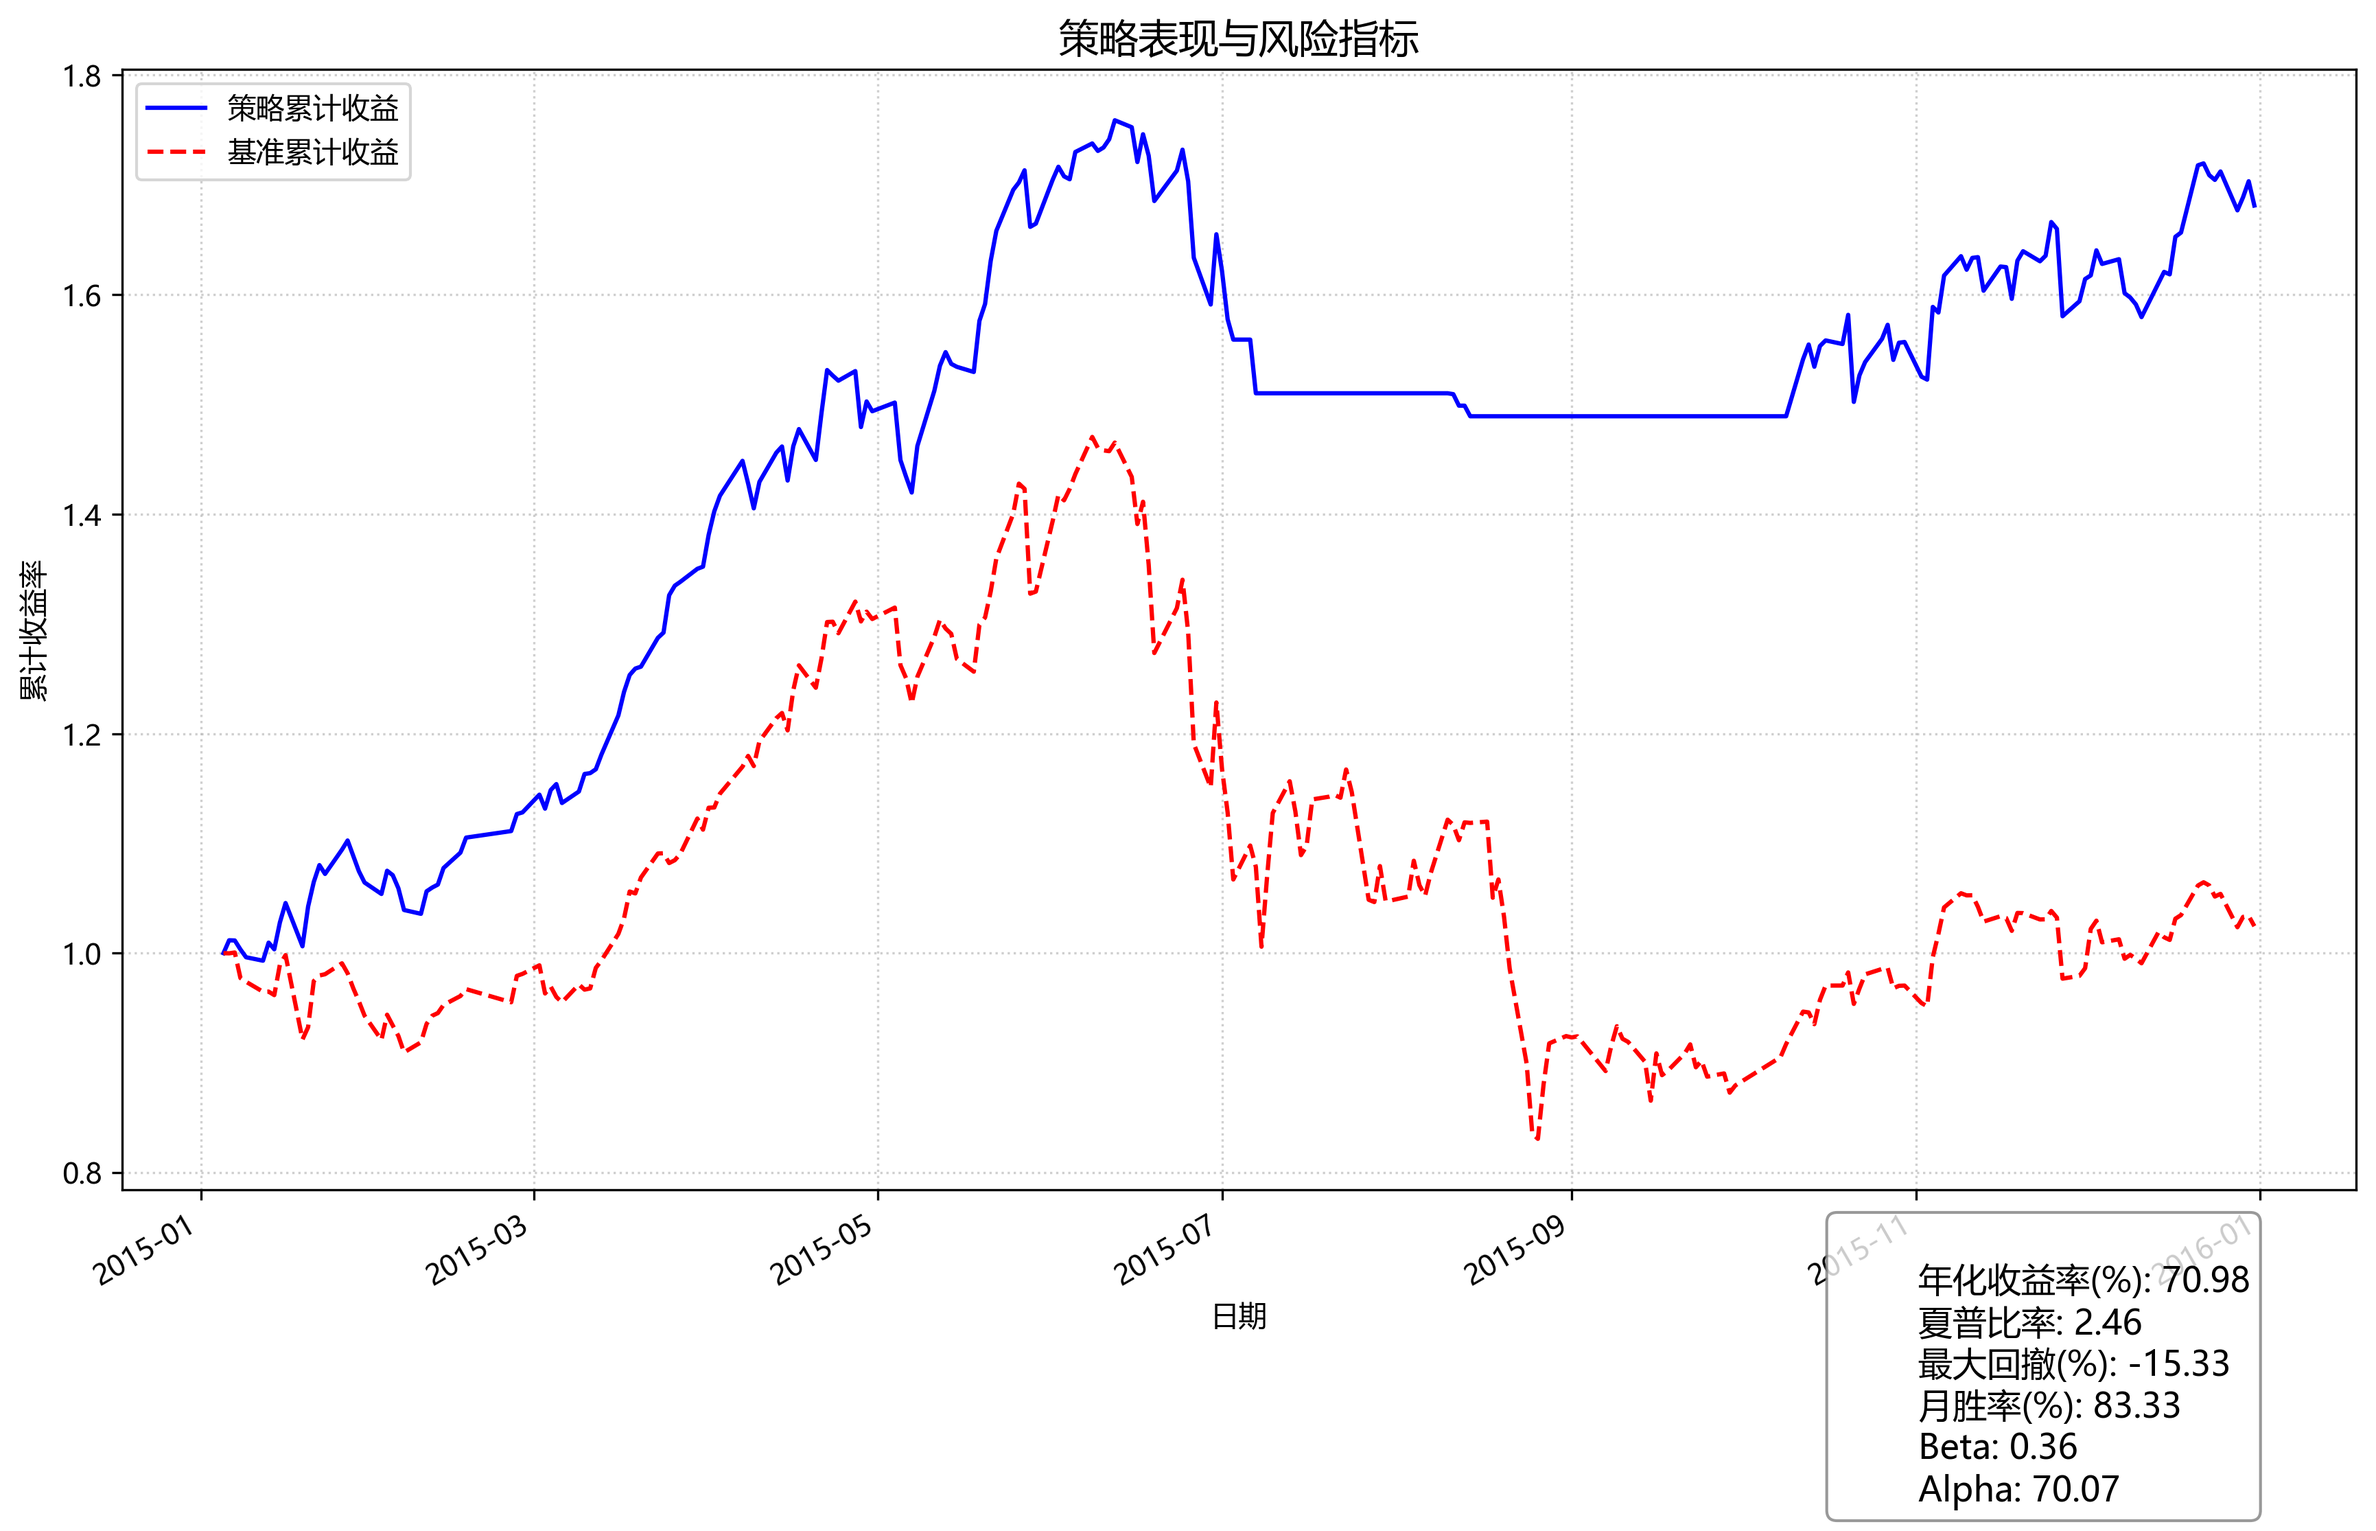
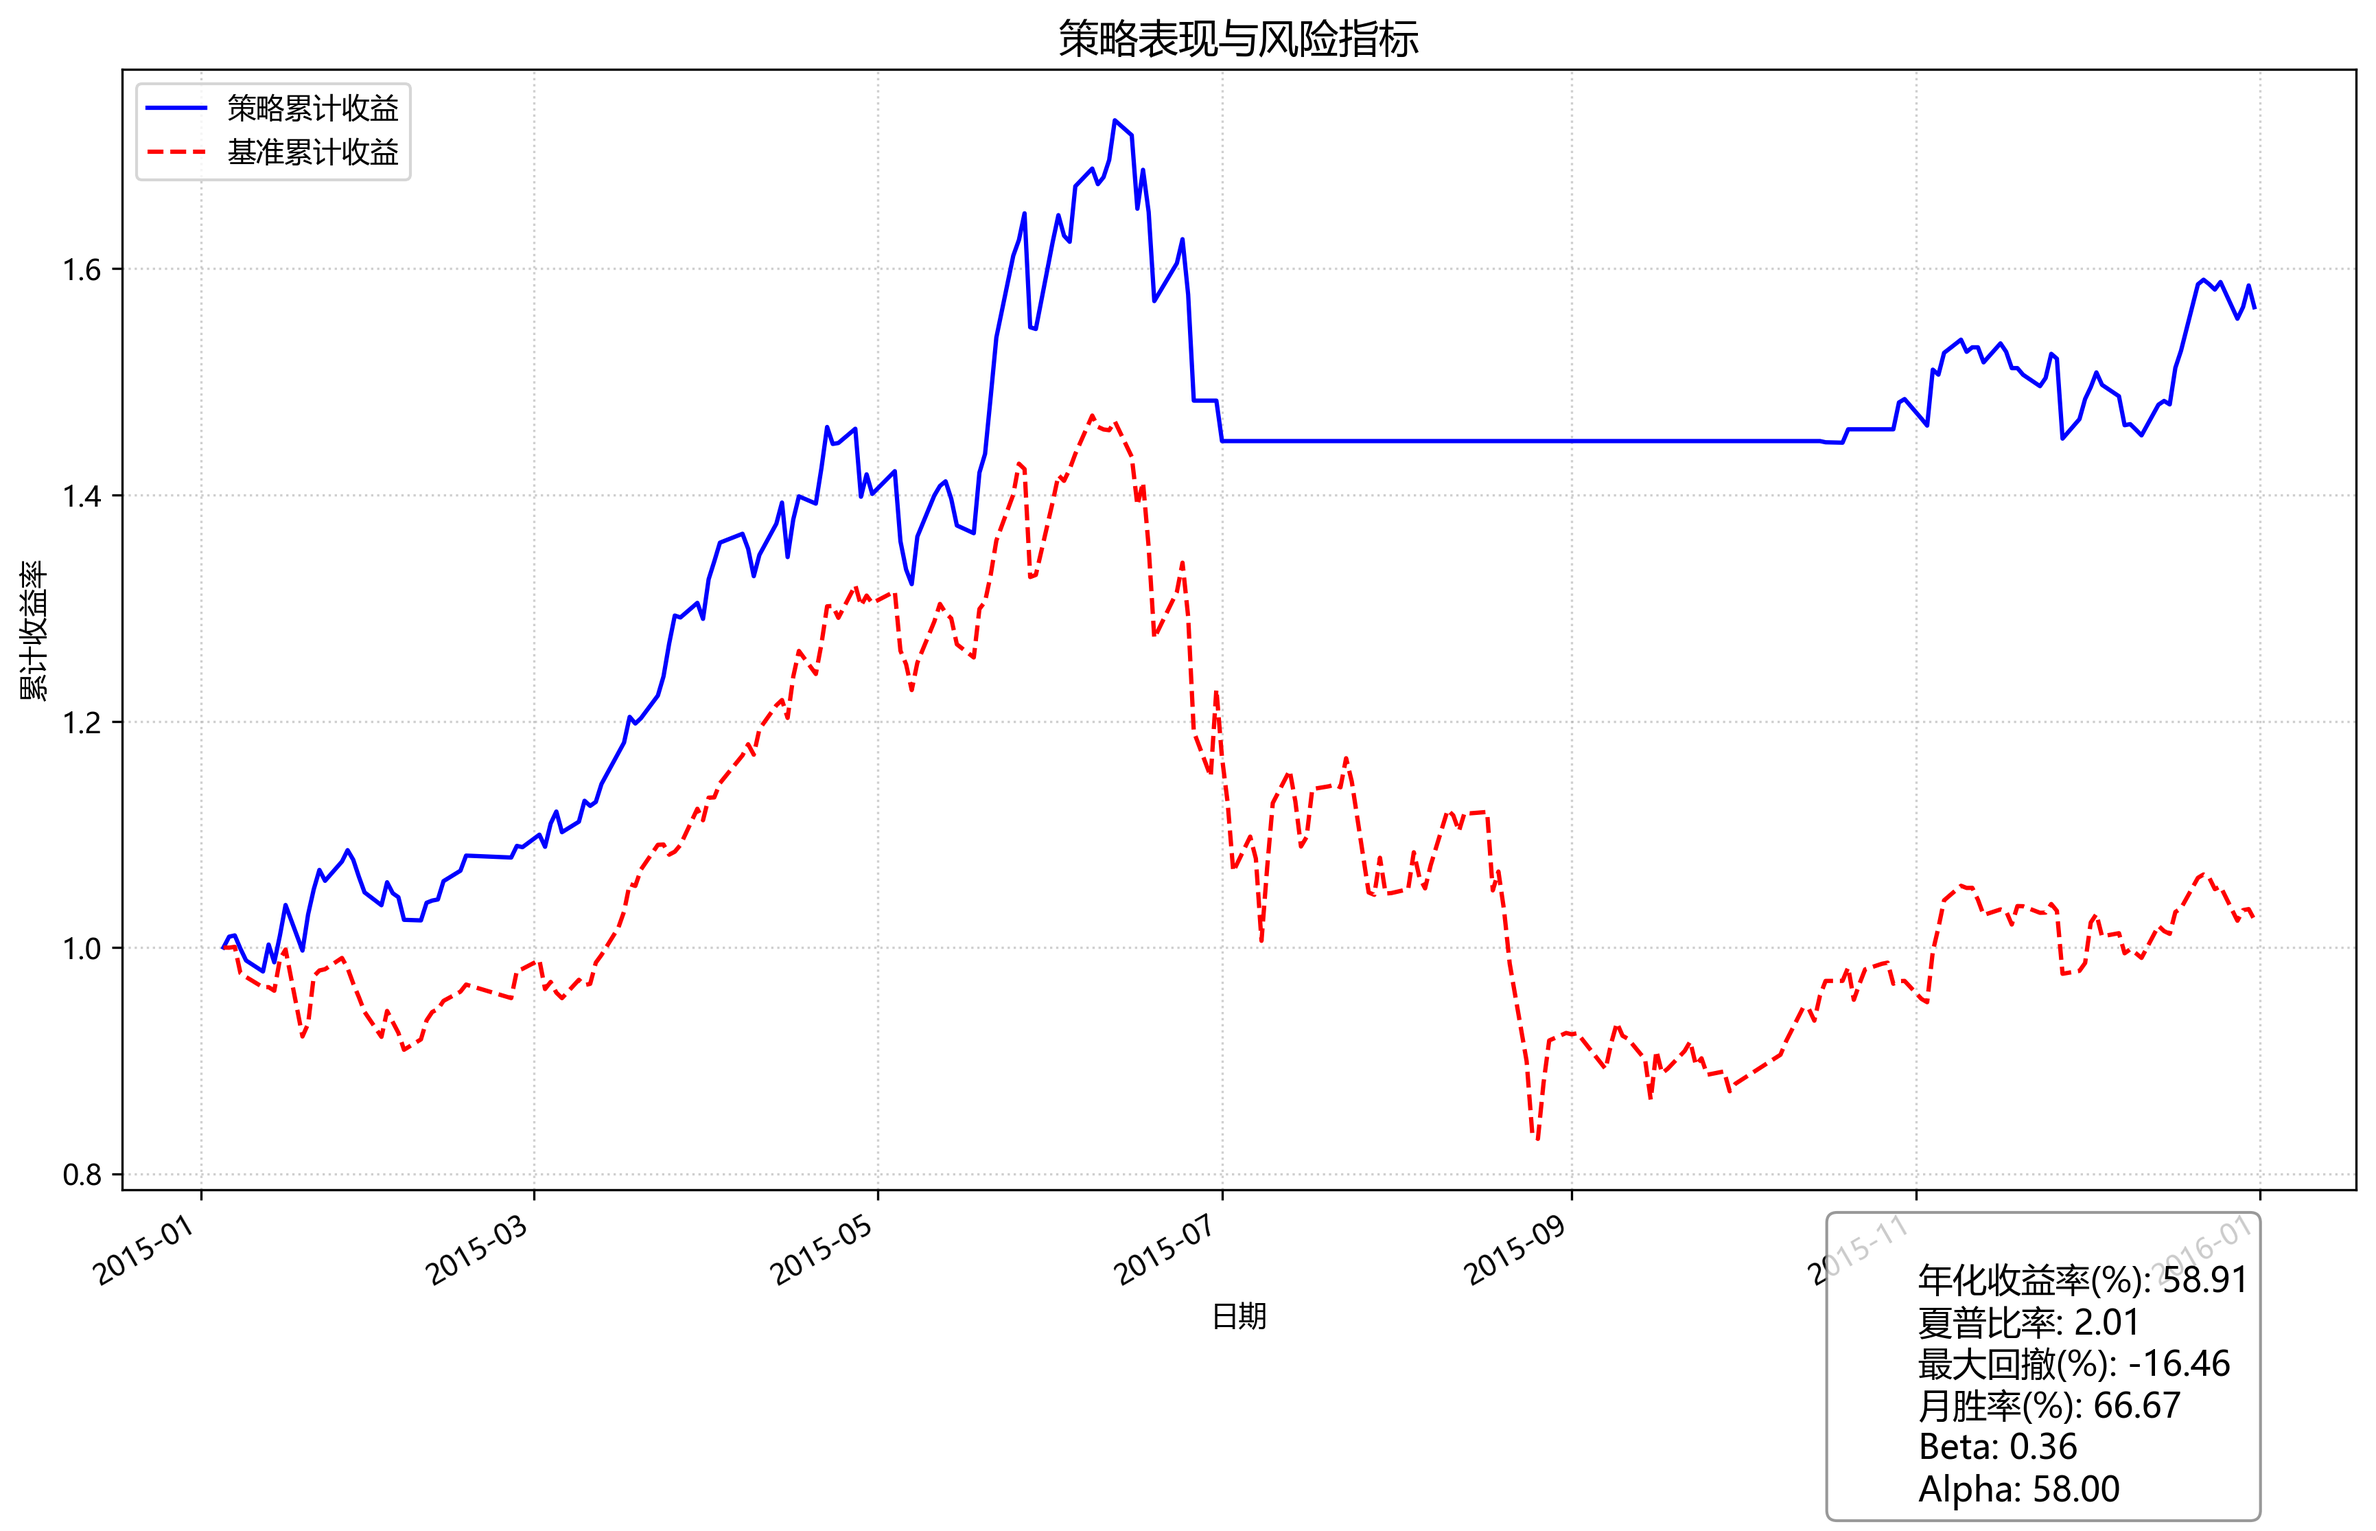
dev

diff --git a/simple_backtrade/strategy/kaimin.py b/simple_backtrade/strategy/kaimin.py
@@ -105,14 +105,16 @@ class BaseStrategy:
         return stock_yoy_gr_mean
     
     def handle_bar(self,date:datetime)->pandas.DataFrame:
-        keeps_num=20
+        keeps_num=10
 
-        baseline_data=self.data_manager.get_recent_baseline(date,60).close
-        baseline=baseline_data.tail(1).iloc[0]
-        m30=baseline_data.tail(30).mean()
-        m60=baseline_data.tail(60).mean()
+        baseline_data=self.data_manager.get_recent_baseline(date,61).close
+        baseline=baseline_data.iloc[-1]
+        base_m20_t1=baseline_data.iloc[-2-20:-2].mean()
+        base_m20_t0=baseline_data.iloc[-1-20:-1].mean()
+        base_m60_t1=baseline_data.head(60).mean()
+        base_m60_t0=baseline_data.tail(60).mean()
 
-        baseline_negative=(m60>m30 and m30>baseline)
+        baseline_negative=(base_m60_t0>base_m20_t0 and base_m20_t0>baseline and base_m20_t1>base_m20_t0 and base_m60_t1>base_m60_t0)
 
 
         market_data=self.data_manager.get_daily_market_data(date,self.stock_factors.index)
@@ -125,27 +127,21 @@ class BaseStrategy:
         history_price=self.data_manager.get_recent_stock_market_data(valid_stock,date,60+1)['close']
         m60_t0=history_price.groupby(level='stock_code').tail(60).groupby(level='stock_code').mean()
         m60_t1=history_price.groupby(level='stock_code').head(60).groupby(level='stock_code').mean()
+        history_price=self.data_manager.get_recent_stock_market_data(valid_stock,date,20+1)['close']
+        m20_t0=history_price.groupby(level='stock_code').tail(20).groupby(level='stock_code').mean()
+        m20_t1=history_price.groupby(level='stock_code').head(20).groupby(level='stock_code').mean()
         share_price=share_price.reindex(self.stock_factors.index,fill_value=1e3)
         m60_t1=m60_t1.reindex(self.stock_factors.index,fill_value=1e9)
         m60_t0=m60_t0.reindex(self.stock_factors.index,fill_value=1e9)
+        m20_t1=m20_t1.reindex(self.stock_factors.index,fill_value=1e9)
+        m20_t0=m20_t0.reindex(self.stock_factors.index,fill_value=1e9)
         pe=share_price/self.stock_factors['profit_per_share']
 
         predict_pe=pe/(1.0+self.stock_factors.history_score/100)
         #predict_pe=pe
 
-        # if baseline_negative:
-            # low_estimat_pe=predict_pe[predict_pe<25]
-            # recovering_pe=predict_pe[(predict_pe<25)&(share_price>=mean20)].sort_values()
-            # strategy_positive=(len(predict_pe[(predict_pe<25)&(share_price>=mean10)])/len(low_estimat_pe)>0.7)
-            # if strategy_positive:
-            #     print("{}: baseline negative strategy positive".format(date))
-            # else:
-            #     print("{}: baseline negative".format(date))
-            #    return pandas.DataFrame()
-
-        # else:
         low_estimat_pe=predict_pe[predict_pe<25]
-        recovering_pe=predict_pe[(predict_pe<25)&(~((share_price<=m60_t0)&(m60_t1>=m60_t0)))].sort_values()
+        recovering_pe=predict_pe[(predict_pe<25)&((m60_t1<m60_t0)&(m60_t0<share_price))].sort_values()
         strategy_negative=(len(recovering_pe)/len(low_estimat_pe)<0.2)
         strategy_positive=(len(recovering_pe)/len(low_estimat_pe)>0.7)
 

diff --git a/run.py b/run.py
@@ -14,11 +14,11 @@ def task(year):
 
 
 if __name__=='__main__':
-    #simple_backtrade.adata_request.update(2007,2025)
+    # simple_backtrade.adata_request.update(2007,2025)
     param_list=list(np.arange(2008,2026))
     with Pool(len(param_list)) as p:
         analyze_results=p.map(task,param_list)
-    #task(2008)
+    # task(2008)
     
     daily_returns=pandas.concat([analyze_result['daily_returns'] for analyze_result in analyze_results])
     benchmark=pandas.concat([analyze_result['benchmark'] for analyze_result in analyze_results])

diff --git a/simple_backtrade/account.py b/simple_backtrade/account.py
@@ -48,7 +48,7 @@ class SimpleAccount:
         if len(stock_list)==0:
             return
         
-        avg_money=self.money*min(1/len(stock_list),0.05)
+        avg_money=self.money*min(1/len(stock_list),0.1)
         market_data=data_manager.get_daily_market_data(date,stock_list)
 
         price=market_data.loc[stock_list].close
